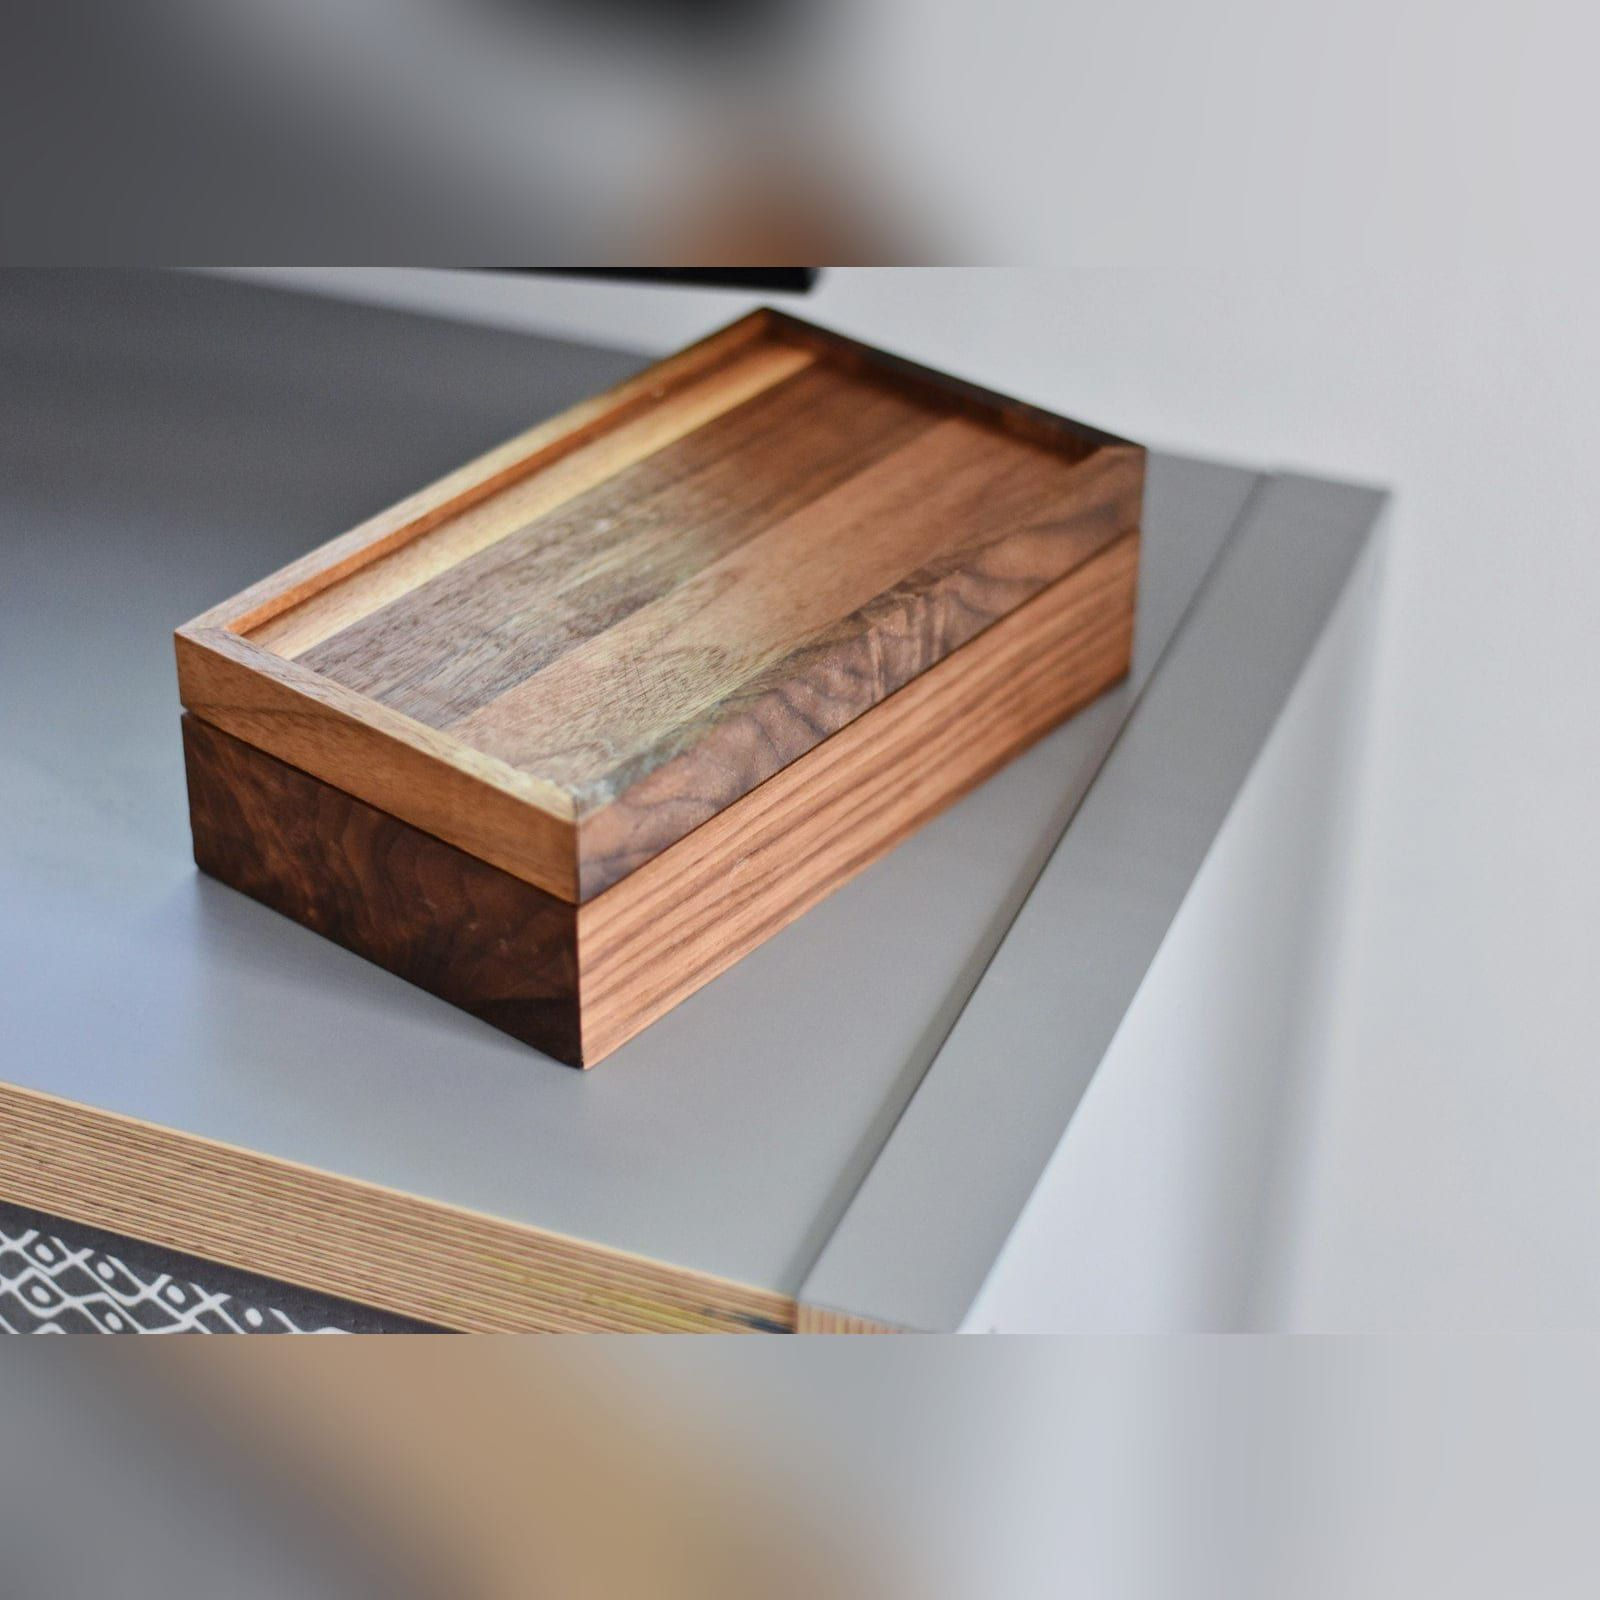
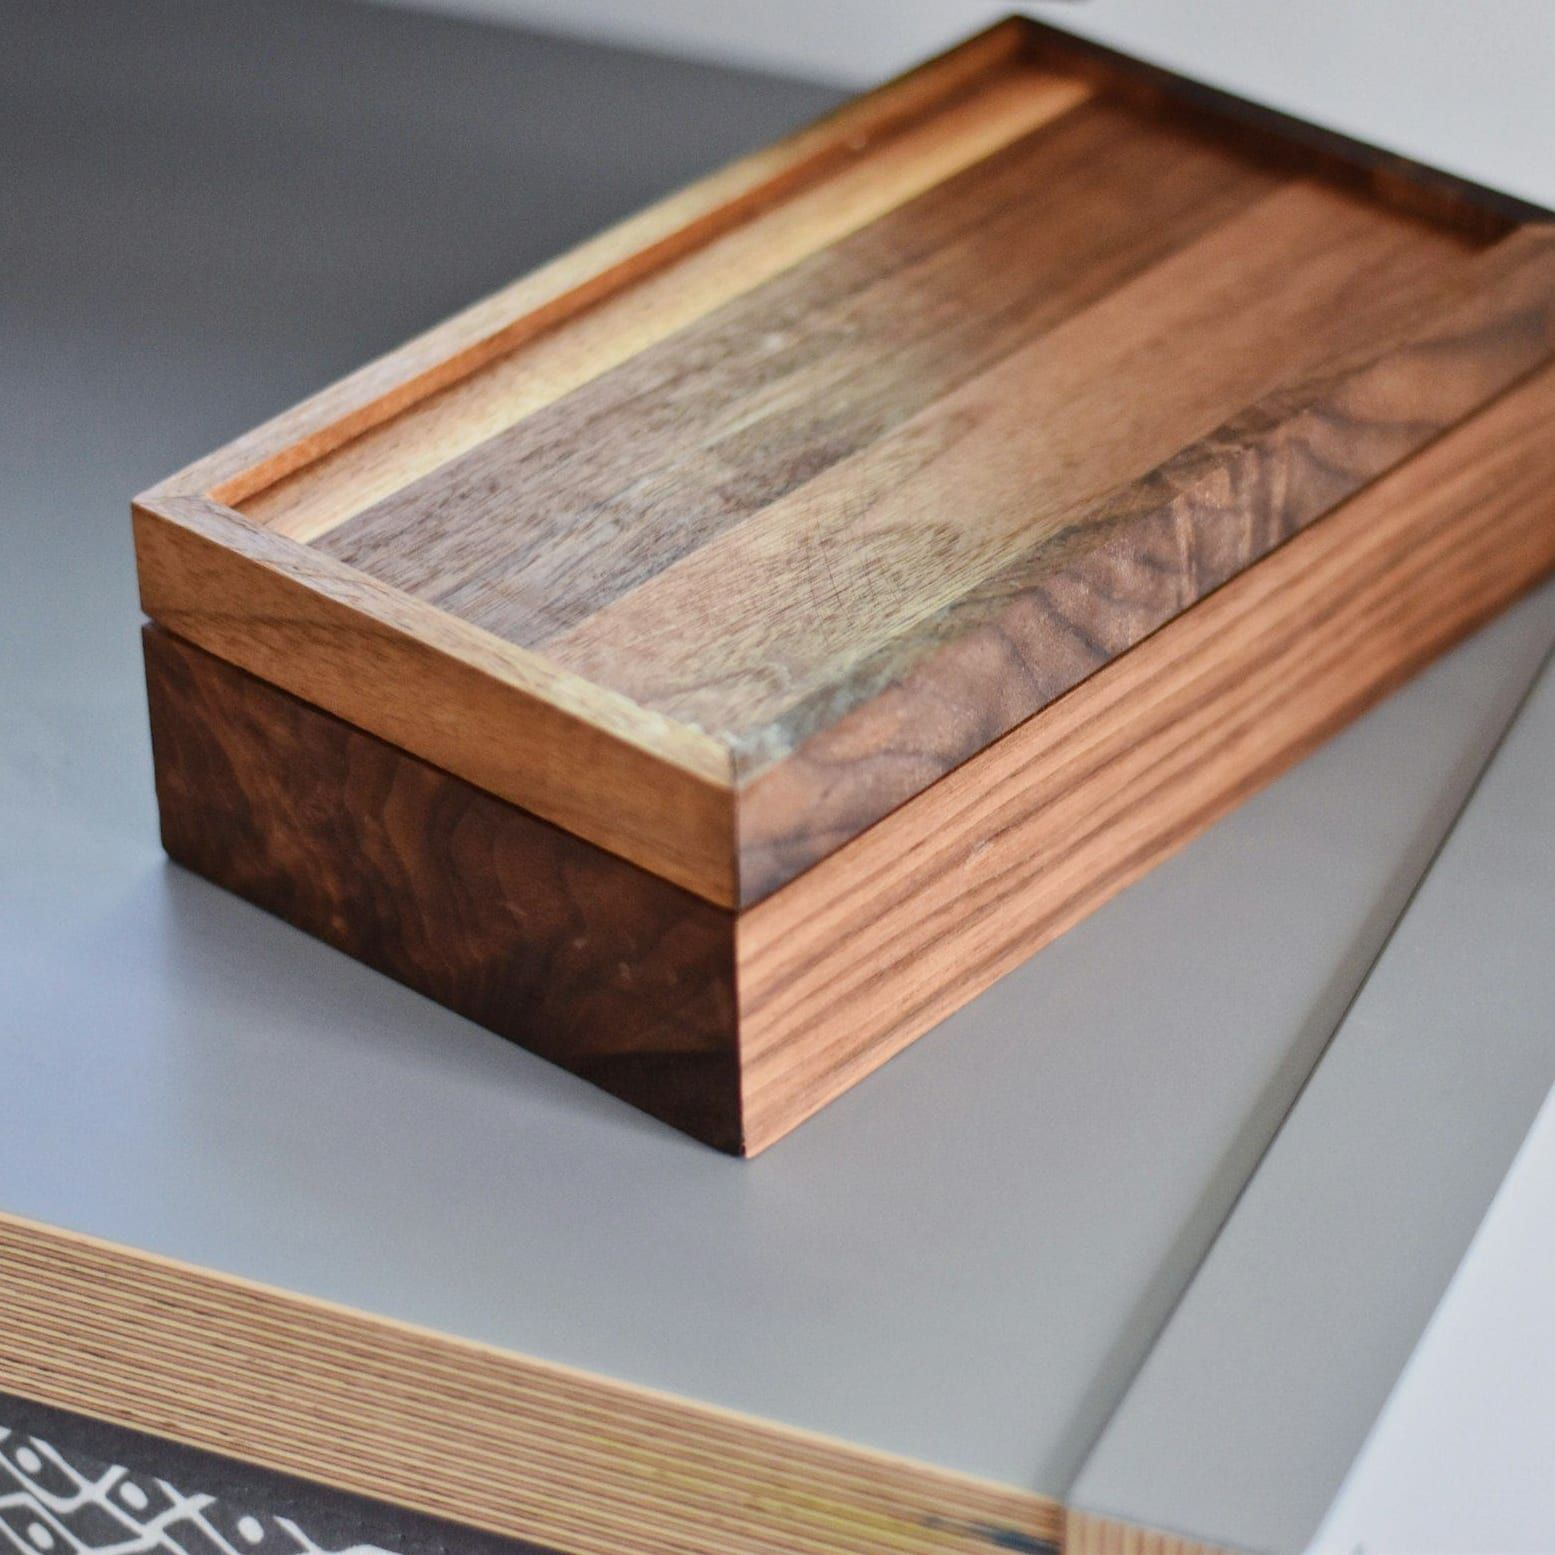
Crop the keepsake box photograph to the box instead of padding it, and rule off the footer where the closing card meets it

diff --git a/scripts/square-images.ts b/scripts/square-images.ts
@@ -1,13 +1,38 @@
 import sharp from 'sharp'
 
-/** Squared before cropping; the bands stretch its own edges, since a blurred copy ghosted the subject. */
-const wide = ['carved-catch-all', 'lidded-keepsake-box', 'turned-serving-trays']
+/** A blurred copy ghosted the subject, so the bands stretch the photograph's own top and bottom edges. */
+const banded = ['carved-catch-all', 'turned-serving-trays']
+
+// Where the subject only fills part of a wide frame, a square cut from it beats bands around it.
+const cropped: Record<string, { left: number; top: number; side: number }> = {
+  'lidded-keepsake-box': { left: 130, top: 45, side: 1555 },
+}
 
 // Overlap tucks the seam under the photograph; the strip is thin so it carries color, not shapes.
 const overlap = 40
 const stripShare = 0.1
 
-for (const slug of wide) {
+for (const [slug, { left, top, side }] of Object.entries(cropped)) {
+  const file = `public/images/${slug}.jpg`
+  const { width = 0, height = 0 } = await sharp(file).metadata()
+  if (width === height) {
+    console.log(`${slug}  already square`)
+    continue
+  }
+  if (left + side > width || top + side > height) {
+    throw new Error(`${slug}: a ${side}px square at ${left},${top} does not fit in ${width}×${height}`)
+  }
+
+  const bytes = await sharp(await sharp(file).toBuffer())
+    .extract({ left, top, width: side, height: side })
+    .jpeg({ quality: 82, mozjpeg: true })
+    .toBuffer()
+
+  await sharp(bytes).toFile(file)
+  console.log(`${slug}  ${width}×${height} -> ${side}×${side}  ${(bytes.length / 1024).toFixed(0)}kb`)
+}
+
+for (const slug of banded) {
   const file = `public/images/${slug}.jpg`
   const source = await sharp(file).toBuffer()
   const { width = 0, height = 0 } = await sharp(source).metadata()
@@ -18,9 +43,9 @@ for (const slug of wide) {
 
   const pad = Math.round((width - height) / 2)
   const strip = Math.round(height * stripShare)
-  const band = (top: number, tall: number) =>
+  const band = (bandTop: number, tall: number) =>
     sharp(source)
-      .extract({ left: 0, top, width, height: strip })
+      .extract({ left: 0, top: bandTop, width, height: strip })
       .resize(width, tall, { fit: 'fill' })
       .blur(70)
       .modulate({ saturation: 0.85 })

diff --git a/scripts/fetch-images.ts b/scripts/fetch-images.ts
@@ -25,13 +25,14 @@ async function lookup(id: string): Promise<{ url: string; name: string; profile:
   return { url: photo.urls.small, name: photo.user.name, profile: photo.user.links.html }
 }
 
-const assignments: { file: string; id: string }[] = [
+// width is per photograph: the default is plenty, but one that gets cropped square needs more pixels.
+const assignments: { file: string; id: string; width?: number }[] = [
   { file: 'washed-linen-napkins', id: 'tC-TOGGEODI' },
   { file: 'linen-bread-cloth', id: 'bTJe8Wseia0' },
   { file: 'studio-apron', id: 'ymSFRIA1mBM' },
   { file: 'heavy-linen-throw', id: 'kwepwyvPWmM' },
   { file: 'linen-table-runner', id: 'jM3gtQbSjnM' },
-  { file: 'lidded-keepsake-box', id: 'GKlMfgZ2fpw' },
+  { file: 'lidded-keepsake-box', id: 'GKlMfgZ2fpw', width: 2400 },
   { file: 'turned-serving-trays', id: 'MzJ6pzgLtC0' },
   { file: 'stoneware-storage-jars', id: 'oiZAQvxTcYQ' },
   { file: 'turned-walnut-bowl', id: 'Xig5z9fr0Kc' },
@@ -74,14 +75,14 @@ const force = process.env.FORCE === '1'
 // ONLY=a,b narrows a forced run to a few files, so re-fetching three originals does not touch the rest.
 const only = new Set((process.env.ONLY ?? '').split(',').filter(Boolean))
 
-for (const { file, id } of assignments) {
+for (const { file, id, width = 1600 } of assignments) {
   if (only.size > 0 && !only.has(file)) continue
   if (!force && existsSync(`public/images/${file}.jpg`) && byFile.has(file)) {
     console.log(`${file}.jpg  kept`)
     continue
   }
   const photo = await lookup(id)
-  const url = `${photo.url.split('?')[0]}?fm=jpg&q=78&w=1600&fit=max&cs=tinysrgb`
+  const url = `${photo.url.split('?')[0]}?fm=jpg&q=78&w=${width}&fit=max&cs=tinysrgb`
   const res = await fetch(url)
   if (!res.ok) throw new Error(`${res.status} downloading ${id}`)
   const bytes = Buffer.from(await res.arrayBuffer())

diff --git a/src/app/globals.css b/src/app/globals.css
@@ -172,10 +172,16 @@
   }
 }
 
-/* The landing page's closing card is the same band as the footer, so on phones the two meet flush. */
+/* The landing page's card is the same band as the footer, so on phones a rule is the only join. */
 @media (width < 40rem) {
   body:has([data-closing]) footer {
     padding-top: 0;
+  }
+  body:has([data-closing]) [data-footer-band] {
+    border-top: 1px solid color-mix(in oklch, var(--color-olive-950) 10%, transparent);
+  }
+  .dark body:has([data-closing]) [data-footer-band] {
+    border-top-color: color-mix(in oklch, white 10%, transparent);
   }
 }
 

diff --git a/src/components/sections/footer-with-link-categories.tsx b/src/components/sections/footer-with-link-categories.tsx
@@ -36,7 +36,7 @@ export function FooterWithLinkCategories({
 } & ComponentProps<'footer'>) {
   return (
     <footer className={clsx('pt-16', className)} {...props}>
-      <div className="bg-olive-950/2.5 py-16 text-olive-950 dark:bg-white/5 dark:text-white">
+      <div data-footer-band className="bg-olive-950/2.5 py-16 text-olive-950 dark:bg-white/5 dark:text-white">
         <Container className="flex flex-col gap-16">
           {notice && (
             <div data-footer-notice className="border-b border-olive-950/10 pb-12 dark:border-white/10">
